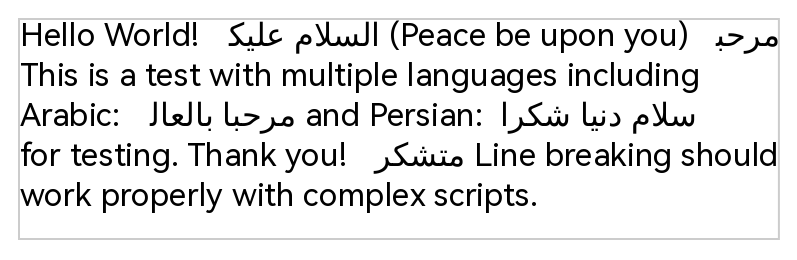
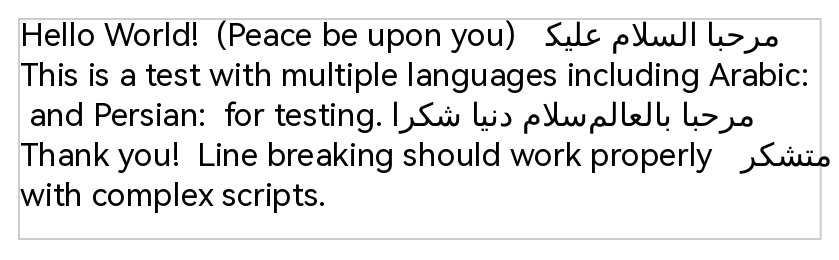
:construction:modify minikin

diff --git a/src/3rdparty/minikin/libs/unicode/ubidi.cpp b/src/3rdparty/minikin/libs/unicode/ubidi.cpp
@@ -1021,14 +1021,13 @@ U_CAPI UBiDiDirection U_EXPORT2 ubidi_getVisualRun(UBiDi* pBiDi, int32_t runInde
     
     // Find the run that is at position runIndex in visual order
     // Visual order: sorted by (level, RTL before LTR at same level)
-    // Create an array of indices sorted by visual order
     typedef struct {
         int32_t index;
         UBiDiLevel level;
         bool isRtl;
     } RunInfo;
     
-    RunInfo sortedRuns[256];  // Assuming max 256 runs
+    RunInfo sortedRuns[256];
     int32_t count = pBiDi->runCount < 256 ? pBiDi->runCount : 256;
     
     for (int32_t i = 0; i < count; i++) {
@@ -1037,7 +1036,7 @@ U_CAPI UBiDiDirection U_EXPORT2 ubidi_getVisualRun(UBiDi* pBiDi, int32_t runInde
         sortedRuns[i].isRtl = (pBiDi->runLevels[i] & 1) != 0;
     }
     
-    // Bubble sort by visual order (level ASC, isRtl DESC for same level)
+    // Bubble sort by visual order: level ASC, RTL before LTR at same level
     for (int32_t i = 0; i < count - 1; i++) {
         for (int32_t j = i + 1; j < count; j++) {
             bool swap = false;
@@ -1103,53 +1102,31 @@ U_CAPI int32_t U_EXPORT2 ubidi_getVisualIndex(UBiDi* pBiDi, int32_t logicalIndex
     }
     
     // Calculate visual position based on run order
-    // Runs are stored in logical order (by level), we need to process in visual order
-    // For visual order: sort runs by (level, direction) - lower levels first, RTL before LTR at same level
     int32_t visualPos = 0;
     
-    // Find the target run's level
-    UBiDiLevel targetLevel = pBiDi->runLevels[runIdx];
-    bool targetIsRtl = (targetLevel & 1) != 0;
-    
-    // First pass: count visual positions of all runs that come BEFORE our run in visual order
+    // Process runs in visual order
     for (int32_t i = 0; i < pBiDi->runCount; i++) {
-        if (i == runIdx) continue;
+        int32_t actualRunIdx = i;
+        if (pBiDi->paraLevel & 1) {
+            // RTL paragraph - process runs in reverse order
+            actualRunIdx = pBiDi->runCount - 1 - i;
+        }
         
-        UBiDiLevel level = pBiDi->runLevels[i];
-        bool isRtl = (level & 1) != 0;
-        
-        // Determine if this run comes before our run in visual order
-        bool comesBefore = false;
-        if (level < targetLevel) {
-            // Lower level always comes before
-            comesBefore = true;
-        } else if (level == targetLevel) {
-            // Same level: RTL comes before LTR
-            if (targetIsRtl) {
-                // Our run is RTL, so LTR runs at same level come after us
-                comesBefore = !isRtl;
+        if (actualRunIdx == runIdx) {
+            // This is our run
+            if (pBiDi->runLevels[actualRunIdx] & 1) {
+                // RTL run - position from end of run
+                visualPos += pBiDi->runLengths[actualRunIdx] - 1 - posInRun;
             } else {
-                // Our run is LTR, so RTL runs at same level come before us
-                comesBefore = isRtl;
+                // LTR run - position from start of run
+                visualPos += posInRun;
             }
+            return visualPos;
         }
-        // Higher level always comes after
-        
-        if (comesBefore) {
-            visualPos += pBiDi->runLengths[i];
-        }
+        visualPos += pBiDi->runLengths[actualRunIdx];
     }
     
-    // Now add position within our run
-    if (targetIsRtl) {
-        // RTL run - position from end of run
-        visualPos += pBiDi->runLengths[runIdx] - 1 - posInRun;
-    } else {
-        // LTR run - position from start of run
-        visualPos += posInRun;
-    }
-    
-    return visualPos;
+    return -1;
 }
 
 U_CAPI int32_t U_EXPORT2 ubidi_getLogicalIndex(UBiDi* pBiDi, int32_t visualIndex, UErrorCode* pErrorCode) {
@@ -1176,76 +1153,26 @@ U_CAPI int32_t U_EXPORT2 ubidi_getLogicalIndex(UBiDi* pBiDi, int32_t visualIndex
         return visualIndex;
     }
     
-    // Find which run contains this visual index by iterating in visual order
-    // Visual order: lower levels first, RTL before LTR at same level
-    int32_t runIdx = -1;
+    // Find which run contains this visual index
+    int32_t runIdx = 0;
     int32_t posInRun = 0;
     int32_t visualPos = 0;
     
     for (int32_t i = 0; i < pBiDi->runCount; i++) {
-        // Find the run with the lowest level that hasn't been processed yet
-        // This is a simplified approach: find the run with smallest (level, isRtl) that contains this visual index
-        // Actually, we need to iterate in visual order
-        
-        // Since runs are stored in logical order, we need to find which run "wins" at each visual position
-        // For visual position X, we need to find which run contains it when runs are ordered by (level, RTL before LTR)
-        
-        // For each position in visual order, determine which logical run it belongs to
-        for (int32_t j = 0; j < pBiDi->runCount; j++) {
-            UBiDiLevel level = pBiDi->runLevels[j];
-            bool isRtl = (level & 1) != 0;
-            
-            // Check if this run starts at the current visual position
-            // We need to track cumulative visual positions in visual order
-            
-            // First, find all runs that would appear before this one in visual order
-            int32_t runsBeforeThis = 0;
-            for (int32_t k = 0; k < pBiDi->runCount; k++) {
-                if (k == j) continue;
-                UBiDiLevel kLevel = pBiDi->runLevels[k];
-                bool kIsRtl = (kLevel & 1) != 0;
-                
-                if (kLevel < level) {
-                    runsBeforeThis++;
-                } else if (kLevel == level && kIsRtl && !isRtl) {
-                    // Same level, but k is RTL and j is LTR, so k comes before j
-                    runsBeforeThis++;
-                }
-            }
-            
-            int32_t visualStart = 0;
-            for (int32_t k = 0; k < pBiDi->runCount; k++) {
-                UBiDiLevel kLevel = pBiDi->runLevels[k];
-                bool kIsRtl = (kLevel & 1) != 0;
-                
-                // Check if k comes before j in visual order
-                bool kBeforeJ = false;
-                if (kLevel < level) {
-                    kBeforeJ = true;
-                } else if (kLevel == level && kIsRtl && !isRtl) {
-                    kBeforeJ = true;
-                }
-                
-                if (kBeforeJ) {
-                    visualStart += pBiDi->runLengths[k];
-                }
-            }
-            
-            if (visualIndex >= visualStart && visualIndex < visualStart + pBiDi->runLengths[j]) {
-                runIdx = j;
-                posInRun = visualIndex - visualStart;
-                break;
-            }
+        int32_t actualRunIdx = i;
+        if (pBiDi->paraLevel & 1) {
+            actualRunIdx = pBiDi->runCount - 1 - i;
         }
         
-        if (runIdx >= 0) break;
+        if (visualIndex < visualPos + pBiDi->runLengths[actualRunIdx]) {
+            runIdx = actualRunIdx;
+            posInRun = visualIndex - visualPos;
+            break;
+        }
+        visualPos += pBiDi->runLengths[actualRunIdx];
     }
     
-    if (runIdx < 0) {
-        return -1;
-    }
-    
-    // Convert to logical position (runs are stored in logical order)
+    // Convert to logical position
     int32_t logicalPos = 0;
     for (int32_t i = 0; i < runIdx; i++) {
         logicalPos += pBiDi->runLengths[i];

diff --git a/src/3rdparty/minikin/test_minikin_cairo.cpp b/src/3rdparty/minikin/test_minikin_cairo.cpp
@@ -484,12 +484,11 @@ int main() {
     
     // 测试文本 - 包含英文、阿拉伯语和波斯语
     std::string testTextUTF8 = 
-        "Hello World! السلام عليكم (Peace be upon you) مرحبا ";
-//        "This is a test with multiple languages including "
-//        "Arabic: مرحبا بالعالم and Persian: سلام دنیا "
-//        "شكراً for testing. Thank you! متشکرم "
-  //      "Line breaking should work properly with complex scripts.";
-    
+        "Hello World! السلام عليكم (Peace be upon you) مرحبا "
+        "This is a test with multiple languages including "
+        "Arabic: مرحبا بالعالم and Persian: سلام دنیا "
+        "شكراً for testing. Thank you! متشکرم "
+        "Line breaking should work properly with complex scripts."; 
     std::vector<uint16_t> text = utf8ToUtf16(testTextUTF8);
     std::cout << "Text length: " << text.size() << " characters" << std::endl;
     